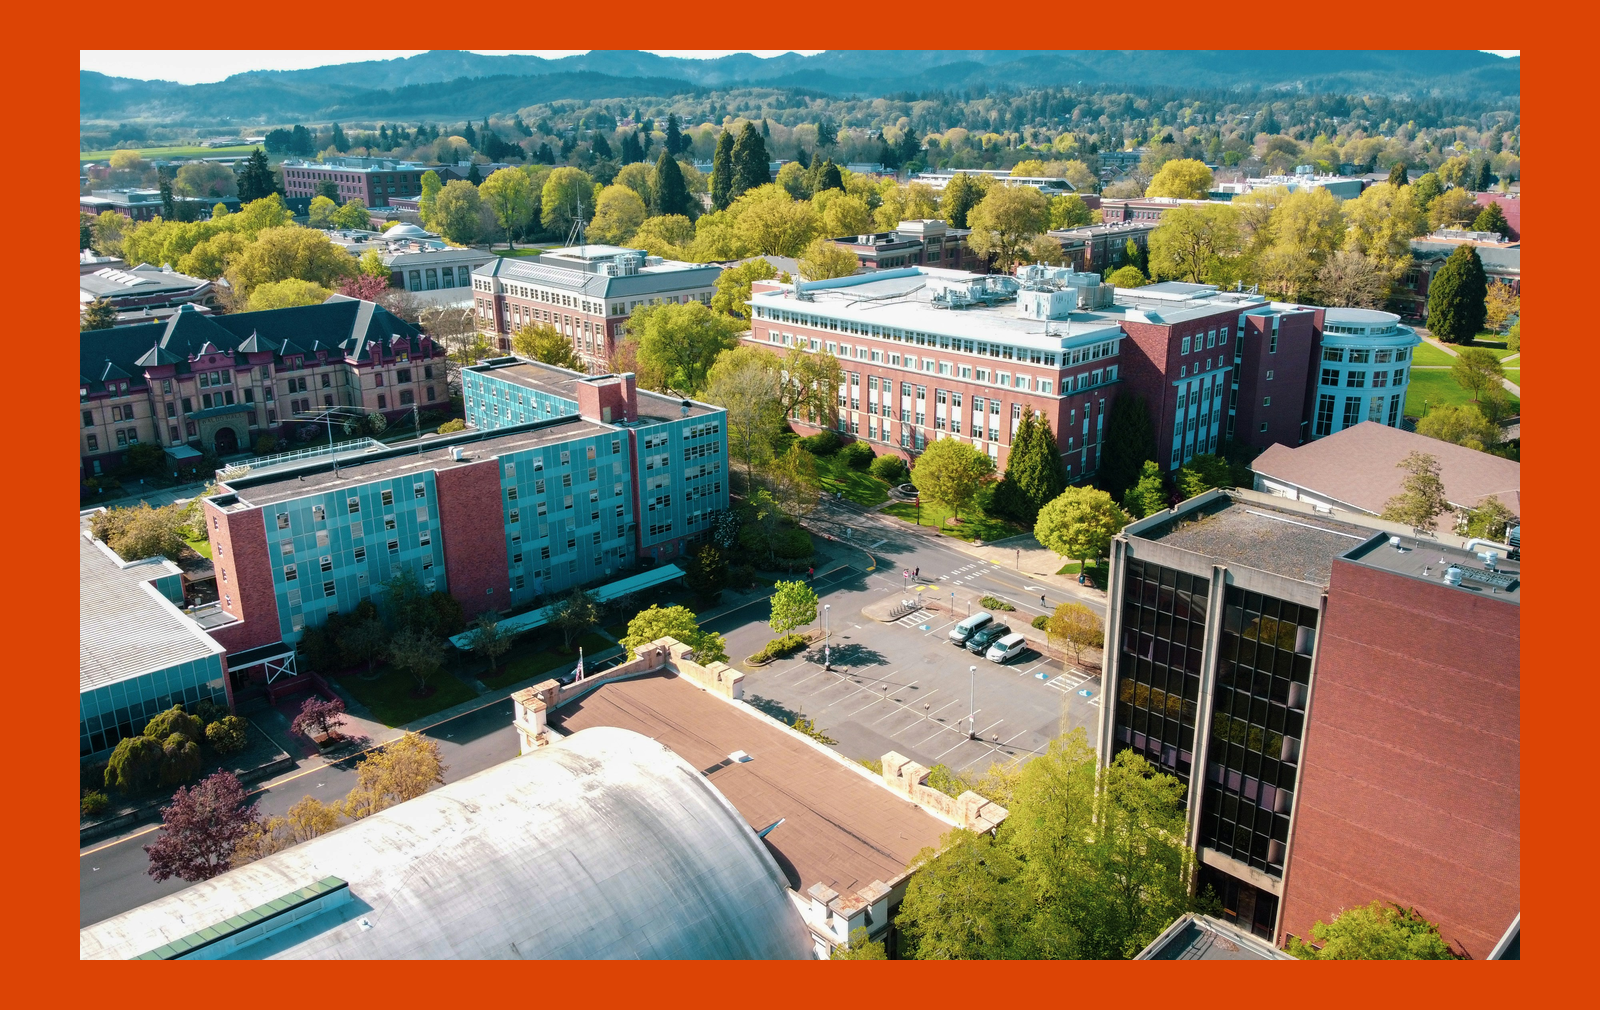
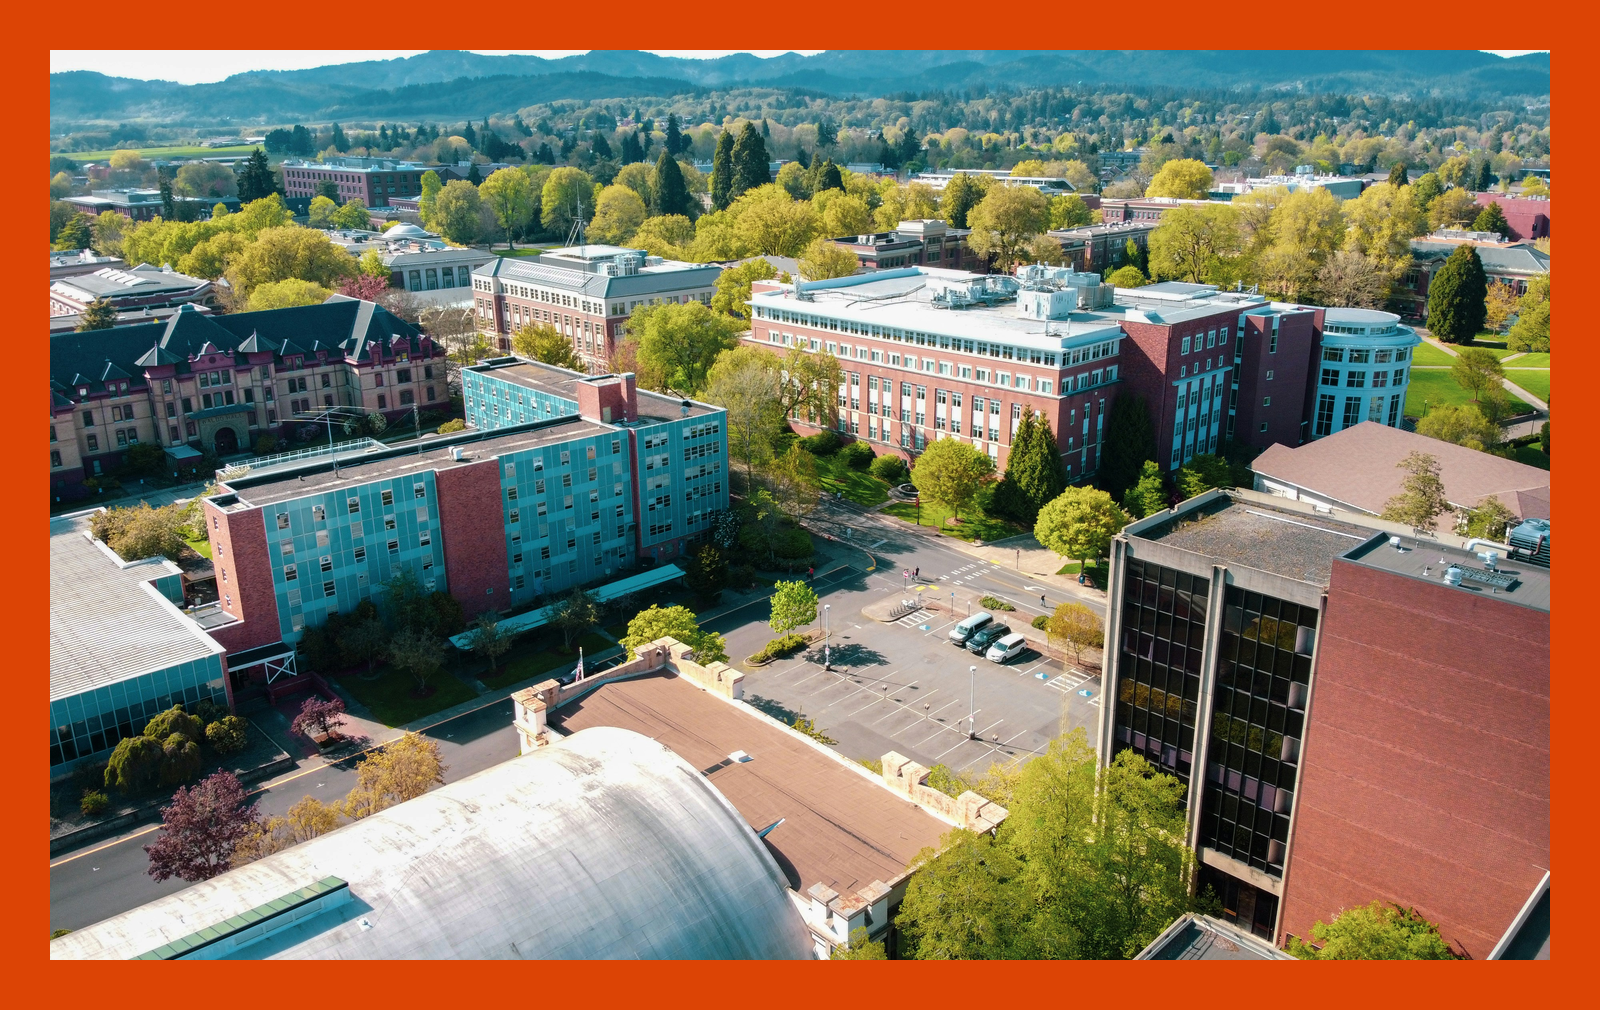
image references

Changed region(s): [[0.9375, 0.0307, 0.9688, 0.9515], [0.0312, 0.0307, 0.0625, 0.9515]]

diff --git a/_includes/css/main.css b/_includes/css/main.css
@@ -1032,6 +1032,12 @@ footer .footer-below .col-lg-12 {
 
 @media (min-width: 992px) and (max-width: 1199px) {
     .portfolio-modal .modal-content h2 { font-size: 2.6em; }
+    .portfolio-modal .col-lg-8 {
+        width: 780px;
+        margin-left: auto;
+        margin-right: auto;
+        float: none;
+    }
 }
 
 @media (min-width: 768px) and (max-width: 991px) {
